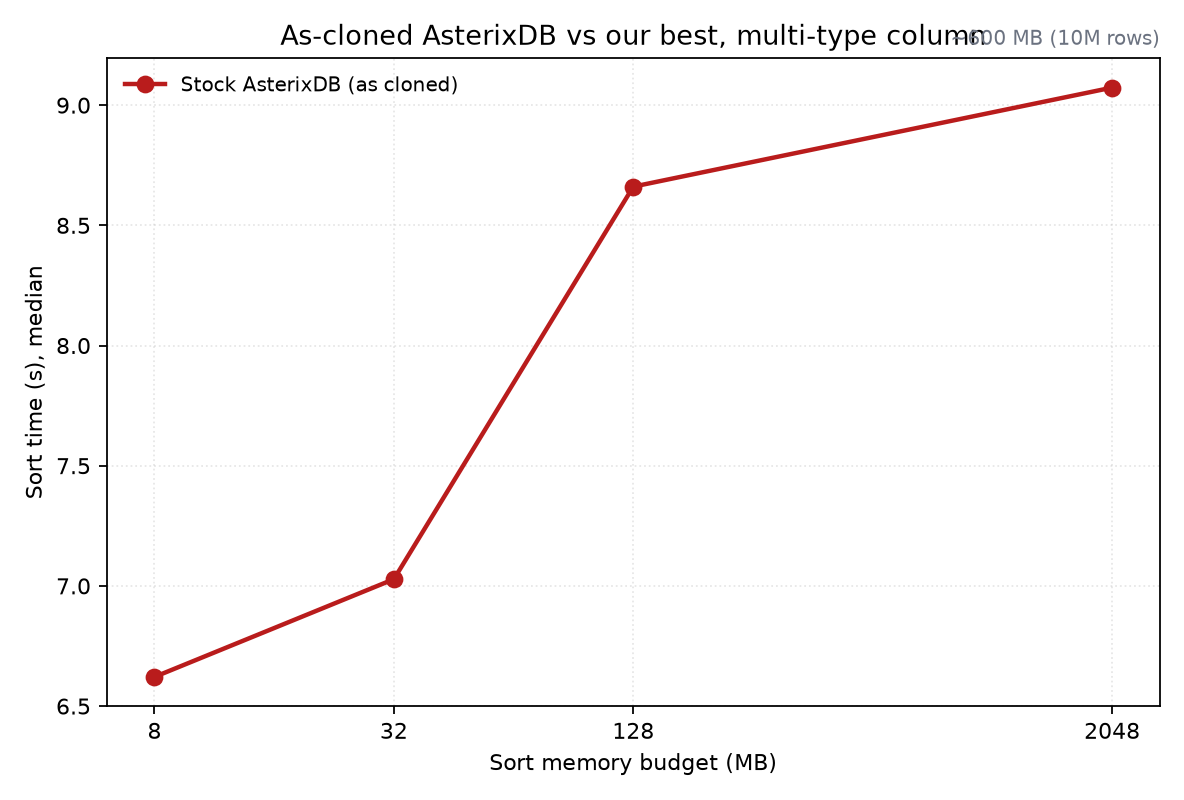
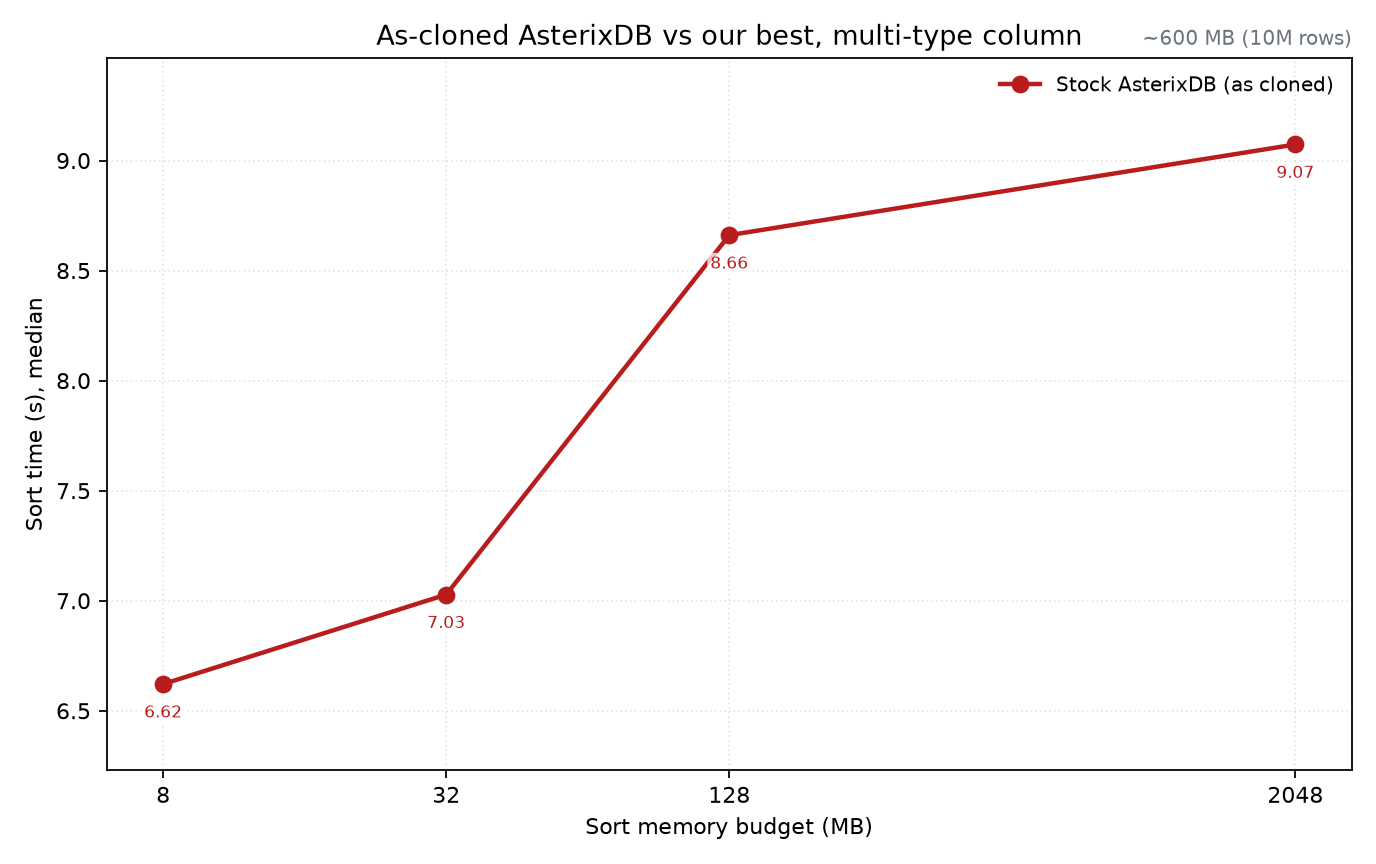
label data points on graphs

diff --git a/experiments/analysis/scripts/make_graphs.py b/experiments/analysis/scripts/make_graphs.py
@@ -41,15 +41,27 @@ AUTO   = ("Auto-detected type", "#1d4ed8", "D", "-")
 
 def lineplot(fname, title, subtitle, series, impossible=None, ratio_to=None):
     """series: list of (label, color, marker, ls, medians)."""
-    fig, ax = plt.subplots(figsize=(7.4, 5.0))
+    fig, ax = plt.subplots(figsize=(8.6, 5.4))
+    plotted = []
     for label, color, marker, ls, ys in series:
         if ys is None: continue
         y = [a / b for a, b in zip(ys, ratio_to)] if ratio_to else ys
         ax.plot([mb(m) for m in mems], y, label=label, color=color, marker=marker,
                 ls=ls, lw=2, ms=7)
+        plotted.append((color, y))
         pct = (y[-1] / y[0] - 1) * 100
         print(f"    {label:<22} " + "  ".join(f"{m}={v:.2f}" for m, v in zip(mems, y))
               + f"   slope={pct:+.1f}%")
+    fmt = (lambda v: f"{v:.3f}") if ratio_to else (lambda v: f"{v:.2f}")
+    for xi, m in enumerate(mems):
+        col = sorted(((yv[xi], c) for c, yv in plotted), key=lambda t: t[0])
+        for rank, (yval, color) in enumerate(col):
+            # lowest label below the point, the rest stacked upward at widening offsets
+            dy = -15 if rank == 0 else 9 + 13 * (rank - 1)
+            ax.annotate(fmt(yval), (mb(m), yval), textcoords="offset points",
+                        xytext=(0, dy), ha="center", fontsize=7.5, color=color,
+                        bbox=dict(boxstyle="round,pad=0.18", fc="white", ec="none", alpha=0.75))
+    ax.margins(y=0.16)
     if ratio_to:
         ax.axhline(1.0, color="black", lw=1.0, alpha=0.6)
         ax.set_ylabel("Time relative to stock (1.0 = parity)")
